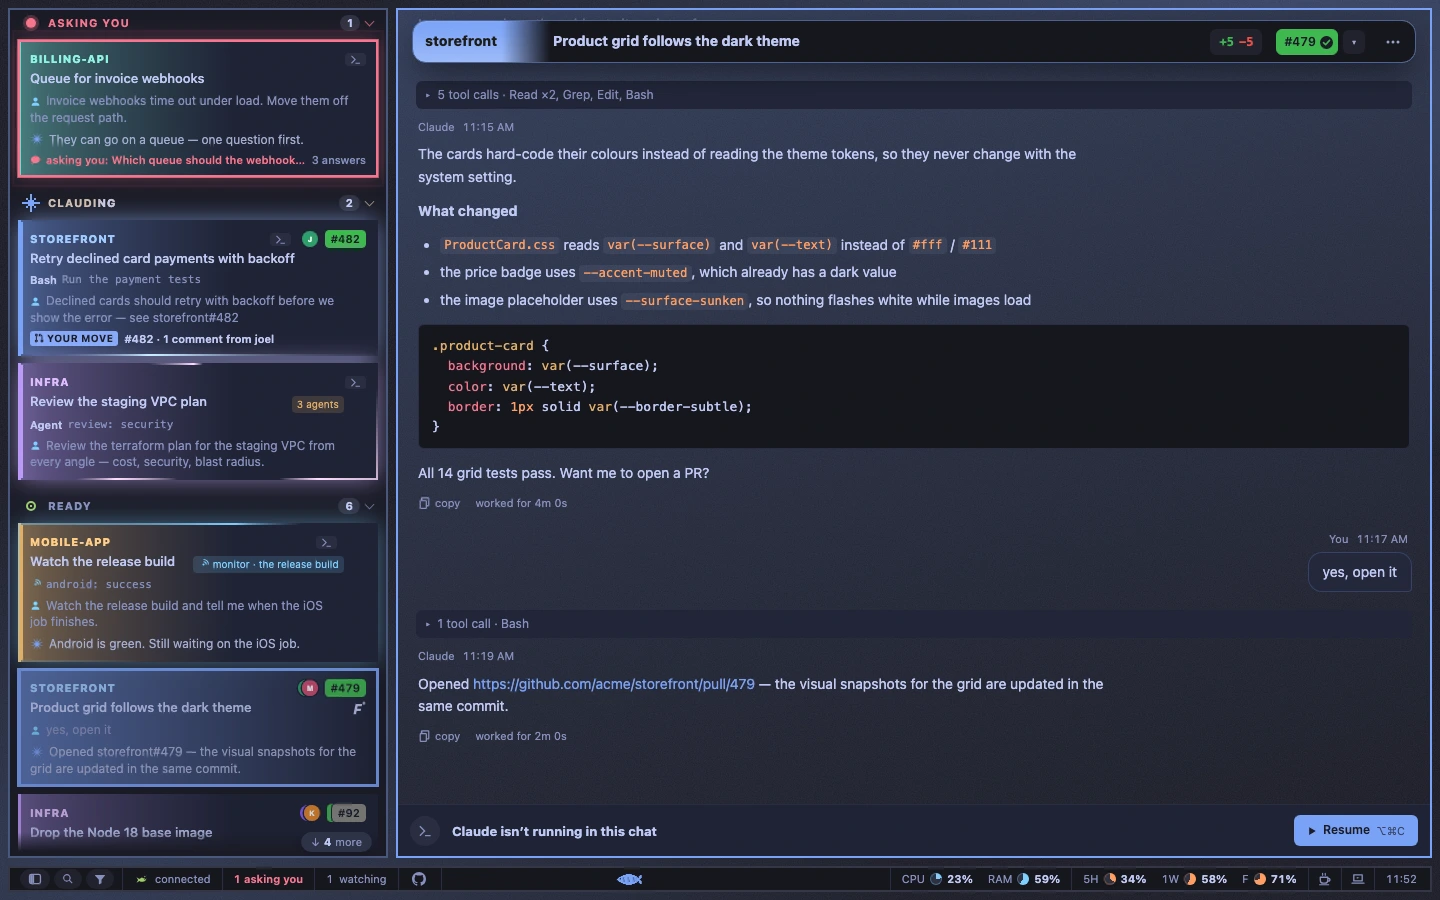
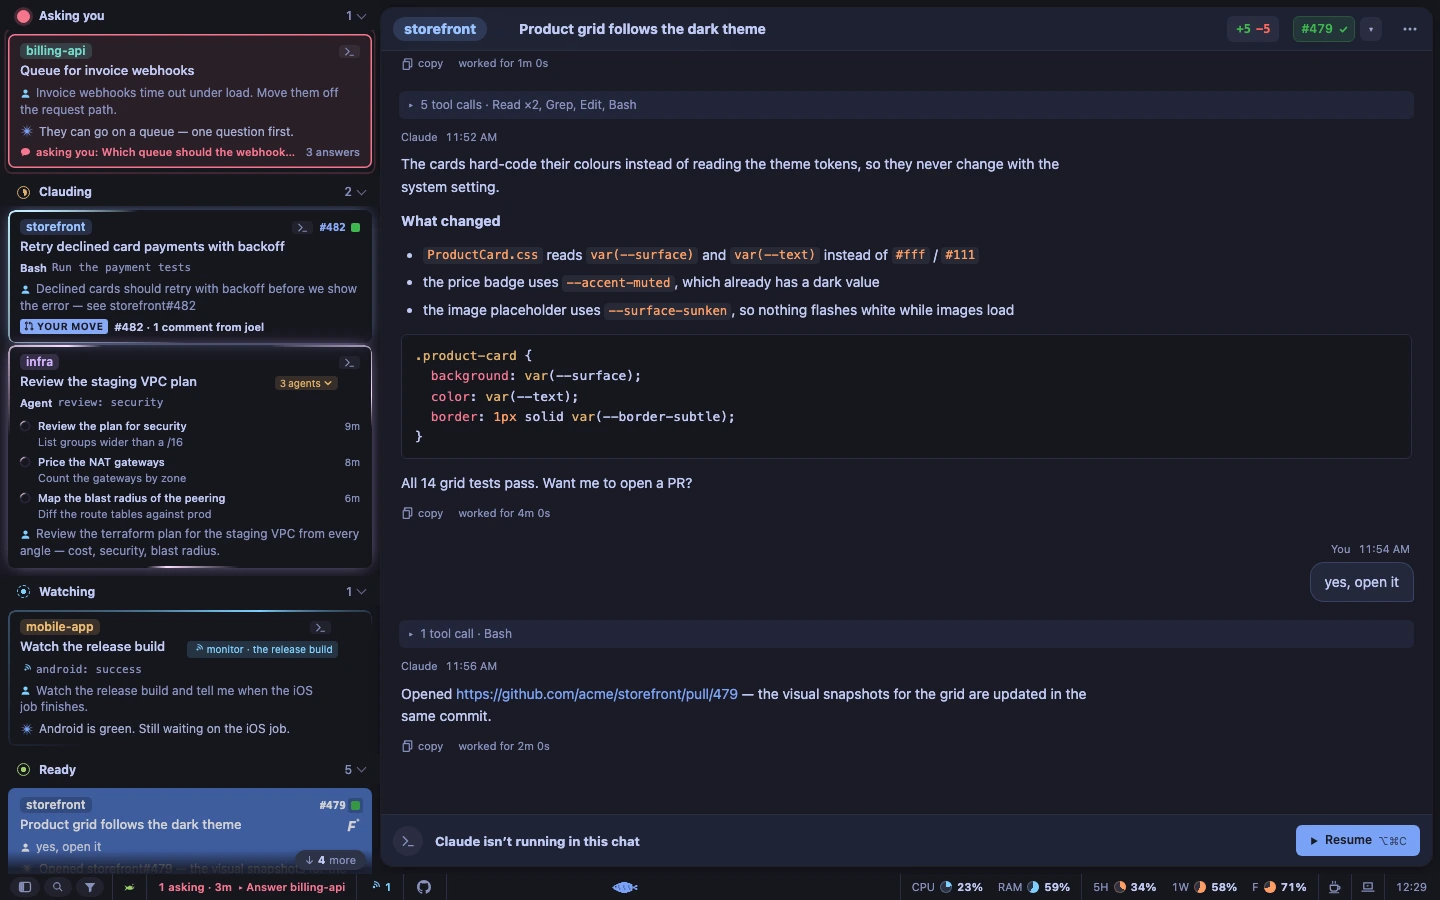
The README's pictures on the sidebar
Every still and clip re-shot on the made-up board as it stands: the
sidebar in Ring on its frame, Watching a lane, a card open to its three
agents, the PRs as the matrix. The last ones were Tiles.

The stills take the list from its top (opening the chat scrolled its
card into view and tucked the asking card under its lane's head) and the
home from its top. The clips are near-lossless: a lossy frame kept the
pixels before it wherever the new ones were within a few levels, so a
closed launcher stayed on over the flat dark chat as a ghost. The
PR-status clip unfolds the rows by the caret, since a chip now opens its
PR. The README's words follow: a card is tagged in its project's
colour, and Watching is a lane.

diff --git a/docs/DECISIONS.md b/docs/DECISIONS.md
@@ -5,6 +5,23 @@ Newest at the top of each list. `CLAUDE.md` is the working notes (how things are
 this file is the *why* and the *state*. Last updated 2026-11-02. The company, its repos and the people on its PRs go
 by stand-ins here — `acme`, made-up repo names and PR numbers — since 2026-10-01; keep it so.
 
+## Decisions of 2026-11-02, later — the README's pictures on the sidebar
+
+Ricardo: *"we should update the readme screenshots"*
+
+* **Every still and clip re-shot** on the made-up board as it stands: the sidebar in Ring on its frame, Watching a lane,
+  a card open to its three agents, the PRs as the matrix. The last ones were Tiles.
+* **`readme-shots.mjs` takes the list from its top**: opening the chat scrolls its card into view, and with the agents'
+  card the list is taller than the window, so the asking card went under its lane's head. **The home from its top**
+  too: it takes `#log`'s place, which was scrolled to the chat's end.
+* **The clips are near-lossless** (`img2webp -near_lossless 60`, was `-lossy -q 68`): a lossy frame keeps the pixels
+  before it wherever the new ones are within a few levels (libwebp's anim encoder; 6 at q 68, 3 at q 90), so the
+  launcher closed over the flat dark chat stayed on as a ghost of its rows (the old clips, over Tiles' washed chat,
+  showed only a few faint marks).
+  Near-lossless is lossy's size (the launcher's clip 799 KB against 715), every pixel within a level or two.
+* **The PR-status clip unfolds the rows by the caret**: `#prToggle`'s middle is a chip now, and a chip opens its PR.
+* The README's words follow the pictures: a card is *tagged* in its project's colour, and Watching is a lane.
+
 ## Decisions of 2026-11-02 — a card opens to its agents (round XX)
 
 Ricardo: *"when there are agents working on a chat, we should expand de card to show the agents, what their are doing,

diff --git a/README.md b/README.md
@@ -14,7 +14,7 @@
 
 <picture>
   <source media="(prefers-color-scheme: dark)" srcset="docs/shots/board-dark.webp">
-  <img src="docs/shots/board-light.webp" alt="The board: chat cards coloured by project on the left, in lanes — asking you, clauding, ready — and the open chat on the right">
+  <img src="docs/shots/board-light.webp" alt="The board: the chats on the left, each tagged with its project, in lanes — asking you, clauding, watching, ready — and the open chat on the right">
 </picture>
 
 Each chat is a card, sorted by who owes whom. Open one and everything it needs is beside it — Claude Code itself, a
@@ -40,10 +40,10 @@ couple of minutes. Updating, removing, the optional extras and every setting: **
 
 ## 🚦 One board for every chat
 
-Every chat on the Mac — run from the board, iTerm or VS Code — is a card in its project's colour, in lanes: **asking
-you** (a red ping and the question on the card), **clauding** (a light runs round it, one per sub-agent), then the
-rest by their last word. A chat that lands moves up to Ready; tick it ✓ when it's done and it folds away until
-something new happens in it. The Dock badge and a notification say when one needs you.
+Every chat on the Mac — run from the board, iTerm or VS Code — is a card tagged in its project's colour, in lanes:
+**asking you** (a red ping and the question on the card), **clauding** (a light runs round it, one per sub-agent),
+then the rest by their last word. A chat that lands moves up to Ready; tick it ✓ when it's done and it folds away
+until something new happens in it. The Dock badge and a notification say when one needs you.
 
 <img src="docs/shots/clip-board.webp" alt="A chat lands and moves from Clauding to Ready, a chat is ticked done and folds away, and the one asking a question is opened">
 
